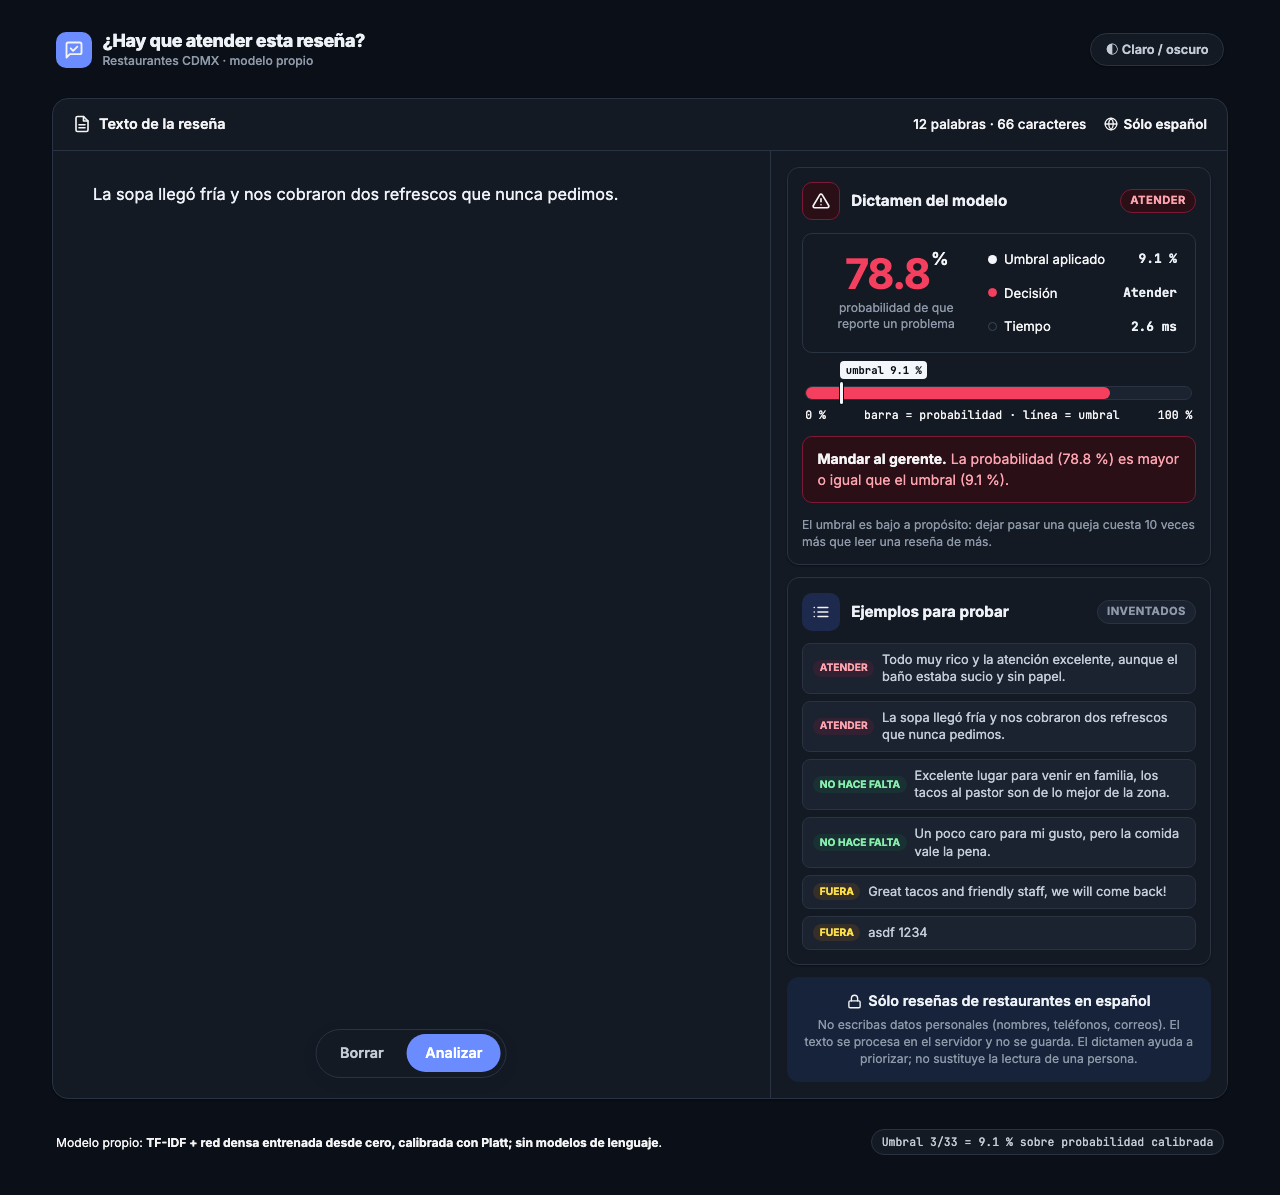
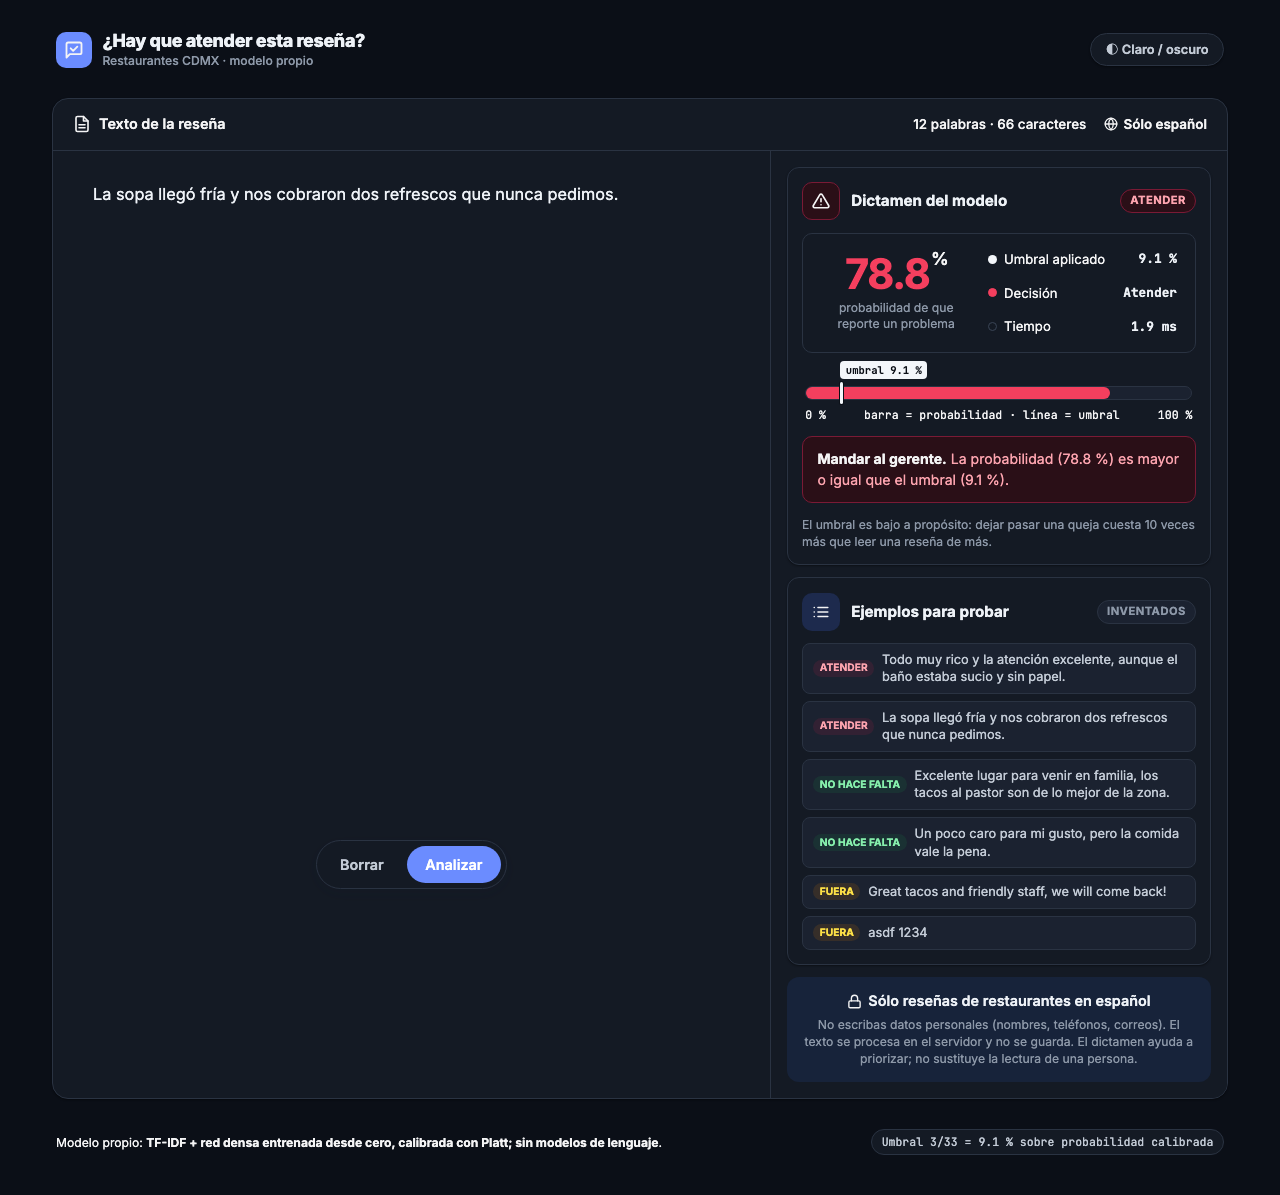
Botones Borrar/Analizar siempre visibles y barra superior sin desborde en móvil (D38)

Changed region(s): [[0.3125, 0.6812, 0.4062, 0.7431], [0.3125, 0.8669, 0.4062, 0.8979]]

diff --git a/app/estilo.css b/app/estilo.css
@@ -30,6 +30,7 @@ body, gradio-app, .gradio-container { background: var(--ra-bg-app) !important; }
 .gradio-container { font-family: var(--ra-font) !important; color: var(--ra-text); max-width: 1440px !important;
   margin: 0 auto !important; padding: .9rem 1.25rem 1.5rem !important; }
 footer { display: none !important; }
+.gradio-container { overflow: clip !important; }  /* Gradio pone hidden, que impide la píldora sticky */
 .gradio-container .block, .gradio-container .form, .gradio-container .html-container {
   border: none !important; box-shadow: none !important; background: transparent !important; padding: 0 !important; }
 
@@ -47,7 +48,7 @@ footer { display: none !important; }
 
 /* Hoja principal */
 .ra-hoja { background: var(--ra-bg-surface) !important; border: 1px solid var(--ra-border) !important; border-radius: 16px !important;
-  box-shadow: var(--ra-sombra); padding: 0 !important; gap: 0 !important; overflow: hidden; }
+  box-shadow: var(--ra-sombra); padding: 0 !important; gap: 0 !important; overflow: clip; }  /* clip (no hidden) para que la píldora pueda ser sticky */
 .ra-toolbar { align-items: center !important; justify-content: space-between !important; flex-wrap: nowrap !important;
   padding: .7rem 1.25rem !important; border-bottom: 1px solid var(--ra-border); gap: 1rem; min-height: 52px; }
 .ra-toolbar > div { flex: 0 1 auto !important; min-width: 0 !important; }
@@ -60,7 +61,7 @@ footer { display: none !important; }
 .ra-cuerpo { gap: 0 !important; align-items: stretch !important; flex-wrap: nowrap !important; }
 
 /* Editor */
-.ra-editor { position: relative; padding: 1.75rem 2.5rem 5.5rem !important; gap: 0 !important; min-width: 0 !important;
+.ra-editor { position: relative; padding: 1.75rem 2.5rem 1.25rem !important; gap: 0 !important; min-width: 0 !important;
   border-right: 1px solid var(--ra-border); }
 .ra-input textarea { font-family: var(--ra-font) !important; font-size: 1.02rem !important; line-height: 1.95 !important;
   color: var(--ra-text) !important; background: transparent !important; border: none !important; box-shadow: none !important;
@@ -69,7 +70,8 @@ footer { display: none !important; }
 .ra-input textarea::placeholder { color: var(--ra-soft); opacity: .8; }
 
 /* Píldora flotante de acciones */
-.ra-pildora { position: absolute !important; left: 50%; max-width: max-content !important; bottom: 1.25rem; transform: translateX(-50%); width: auto !important;
+/* Siempre visible: pegada al borde inferior de la pantalla mientras el editor esté a la vista (en móvil, fija). */
+.ra-pildora { position: sticky !important; bottom: 1.25rem; align-self: center !important; margin-top: auto !important; max-width: max-content !important; width: auto !important;
   flex-wrap: nowrap !important; gap: .3rem !important; padding: .3rem !important; background: var(--ra-bg-surface) !important;
   border: 1px solid var(--ra-border) !important; border-radius: 999px !important; box-shadow: 0 4px 14px rgb(16 24 40 / .12); z-index: 5; }
 .ra-pildora > * { flex: 0 0 auto !important; width: auto !important; min-width: max-content !important; }
@@ -157,12 +159,14 @@ footer { display: none !important; }
 /* Pantallas medianas y móviles: el panel va debajo del editor */
 @media (max-width: 900px) {
   .ra-cuerpo { flex-direction: column !important; }
-  .ra-editor { border-right: none; border-bottom: 1px solid var(--ra-border); padding: 1.25rem 1.25rem 5rem !important; width: 100% !important; }
+  .ra-editor { border-right: none; border-bottom: 1px solid var(--ra-border); padding: 1.25rem !important; width: 100% !important; }
+  .ra-pildora { position: fixed !important; left: 50%; transform: translateX(-50%); bottom: max(1rem, env(safe-area-inset-bottom)); }
+  .gradio-container { padding-bottom: 5.5rem !important; }
   .ra-lateral { min-width: 0 !important; width: 100% !important; }
   .ra-input textarea { min-height: 180px; height: 180px !important; }
 }
 @media (max-width: 640px) {
-  .gradio-container { padding: .6rem .5rem 1.2rem !important; }
+  .gradio-container { padding: .6rem .5rem 5.5rem !important; }
   .ra-top { gap: .5rem; }
   .ra-logo small { display: none; }
   .ra-logo b { font-size: .98rem; }
@@ -171,13 +175,16 @@ footer { display: none !important; }
   .ra-toolbar { padding: .6rem .9rem !important; }
   .ra-toolbar-izq span { display: none; }
   .ra-toolbar-der { gap: .7rem; font-size: .78rem; }
-  .ra-editor { padding: 1rem 1rem 4.6rem !important; }
+  .ra-editor { padding: 1rem !important; }
   .ra-lateral { padding: .7rem !important; }
   .ra-caja { grid-template-columns: 1fr; gap: .8rem; }
   .ra-grande b { font-size: 2.3rem; }
   .ra-leyenda span:nth-child(2) { display: none; }
   .ra-input textarea { font-size: .98rem !important; line-height: 1.7 !important; }
-  .ra-toolbar-der { flex-wrap: nowrap; }
+  .ra-toolbar > div:first-child { display: none !important; }
+  .ra-toolbar > div:last-child { flex: 1 1 100% !important; width: 100% !important; }
+  .ra-toolbar-der { justify-content: space-between; gap: .2rem .6rem; }
+  .ra-conteo { white-space: normal; }
   .ra-chip { flex-direction: column !important; align-items: flex-start !important; gap: .3rem; }
   .ra-pie-badge { border-radius: 8px; }
 }

diff --git a/DECISIONES.md b/DECISIONES.md
@@ -393,3 +393,10 @@ Los ejemplos reales de cada caso se agregan en `GUIA_ETIQUETADO.md` (T1).
 - **Cambio de contrato:** la tarjeta de resultado lleva `data-clase` y `data-probabilidad` (4 decimales); `referencia_app.py --url` las lee en lugar de buscar texto visible, así el diseño puede cambiar sin romper la verificación.
 - **Sin cambios en el modelo ni en el `Predictor`.** Verificado: 95 pruebas, 12/12 contra `app/referencia.json` local y por el servidor; capturas nuevas en `docs/capturas/`.
 - **Descartada:** quedarse con el diseño de D35 (al usuario no le terminó de convencer).
+
+## D38 · Botones Borrar / Analizar siempre visibles — 24-nov-2026
+
+- **Pedido del usuario:** la píldora de acciones debe estar en pantalla en todo momento, como en la referencia de D37; con reseñas largas quedaba al fondo del editor y había que bajar.
+- **Cambio (sólo CSS):** en escritorio la píldora es `sticky` al borde inferior de la pantalla mientras el editor esté a la vista; en pantallas de menos de 900 px es `fixed` abajo al centro. Gradio pone `overflow: hidden` en su contenedor, que impide el sticky; se cambió a `overflow: clip`.
+- **Verificado con Playwright** (reseña de 2,475 caracteres): el botón Analizar está visible en 3 posiciones de scroll en escritorio (1280×720) y en móvil (390×844), y funciona al hacer clic; la página no se desborda a lo ancho ni con 6,000 caracteres.
+- **Descartada:** `fixed` también en escritorio, porque quedaría centrada en la ventana y no en el editor.

diff --git a/system-heartbeat.md b/system-heartbeat.md
@@ -86,6 +86,7 @@ Estados: ⬜ pendiente · 🟡 en curso · 🔵 en revisión · ✅ hecho · ⛔
 
 ## Bitácora
 
+- **24-nov** · Botones Borrar / Analizar siempre visibles (sticky en escritorio, fijos en móvil) y barra superior que ya no desborda en móvil (D38).
 - **24-nov** · App rediseñada como editor de documentos (D37): hoja con el texto, panel de dictamen y ejemplos, píldora Analizar; `referencia_app.py` lee `data-clase`/`data-probabilidad`. 95 pruebas, 12/12 local y por servidor. Falta reconstruir la imagen Docker.
 - **24-nov** · Contenedor probado en local (Docker 29.6, arm64): build 1.5 min, arranque 4 s, healthcheck sano, 12/12 contra `app/referencia.json` vía `--url`, ida y vuelta 61 ms (p95 74), modelo 3.5 ms, 347 MiB de RAM; la imagen no trae data/, .env ni spaCy; el lock trae la rueda torch CPU x86_64 que usará el Space.
 - **24-nov** · Buscador de Google Maps en la app: descartado por el usuario (D36).
